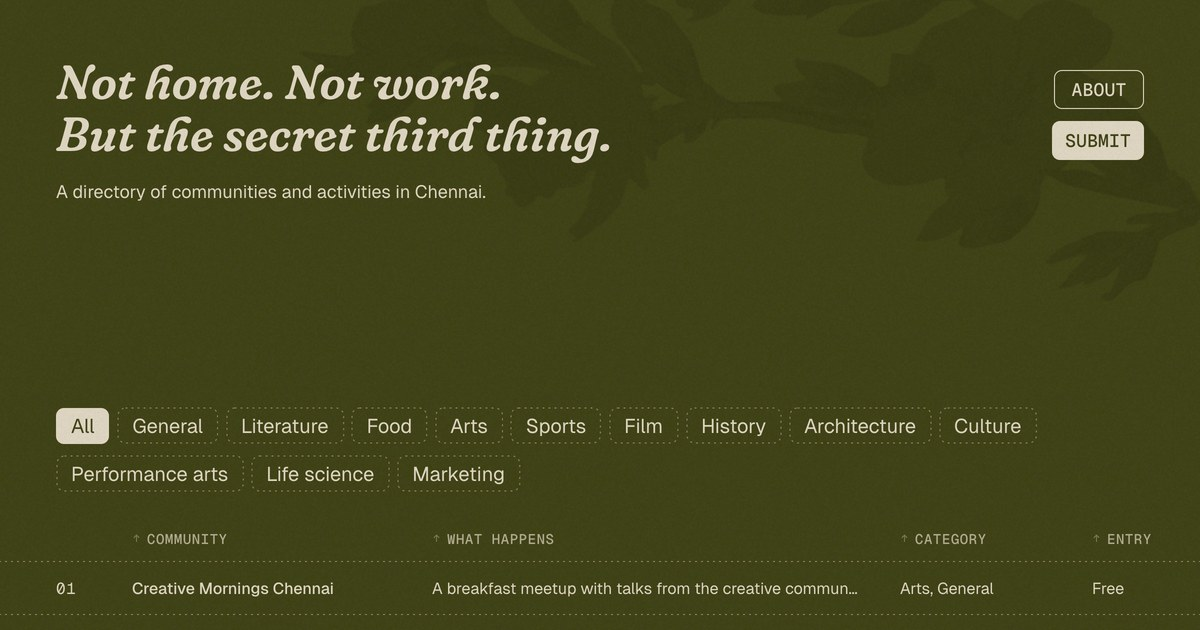
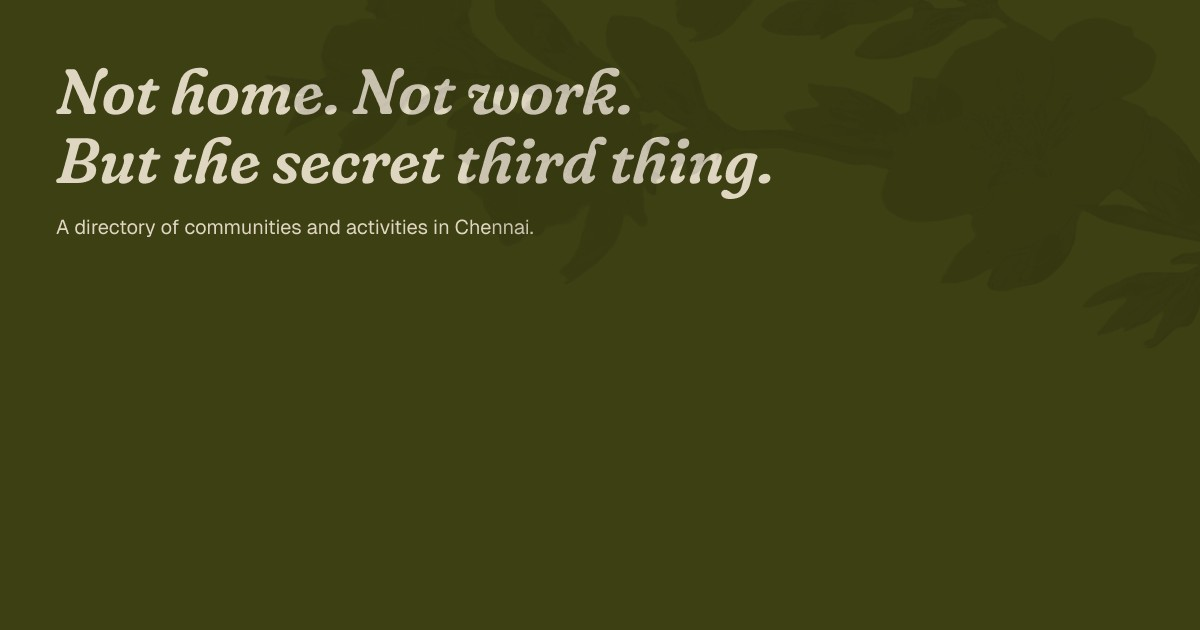
Use Harsha's Figma share frame (1091:17) as the link preview

diff --git a/CLAUDE.md b/CLAUDE.md
@@ -433,11 +433,15 @@ make them refetch.
 ## Share preview
 
 `public/og.jpg` is the link-preview image (`og:image`, Twitter
-`summary_large_image`): the page as it first loads in a 1200 × 630 window,
-captured at 2× in headless Chrome and scaled down, dev toolbar removed.
-It's a screenshot, so it goes stale when the hero, pills or palette
-change — recapture it then. A hero-only version (pills and table hidden)
-was tried and was mostly empty olive. The tags need absolute URLs, built
+`summary_large_image`), 1200 × 630: Harsha's Figma frame `1091:17` —
+title, tagline and the branch on the olive, nothing else — exported and
+saved as JPEG (2026-10-25). It replaced a screenshot of the live page,
+which also caught the pills and the first table row. Re-export it from
+that frame if the hero changes, and bump the `?v=` on `shareImage` in the
+page frontmatter: apps cache preview images by URL. They cache the page's
+preview too, so a link shared before a change can keep the old preview
+for a while (Facebook's Sharing Debugger forces a refresh; sharing with
+`?v=1` appended shows a fresh one). The tags need absolute URLs, built
 from `site` in `astro.config.mjs` (`https://nothome-notwork.vercel.app`);
 change that if the site lives elsewhere.
 
